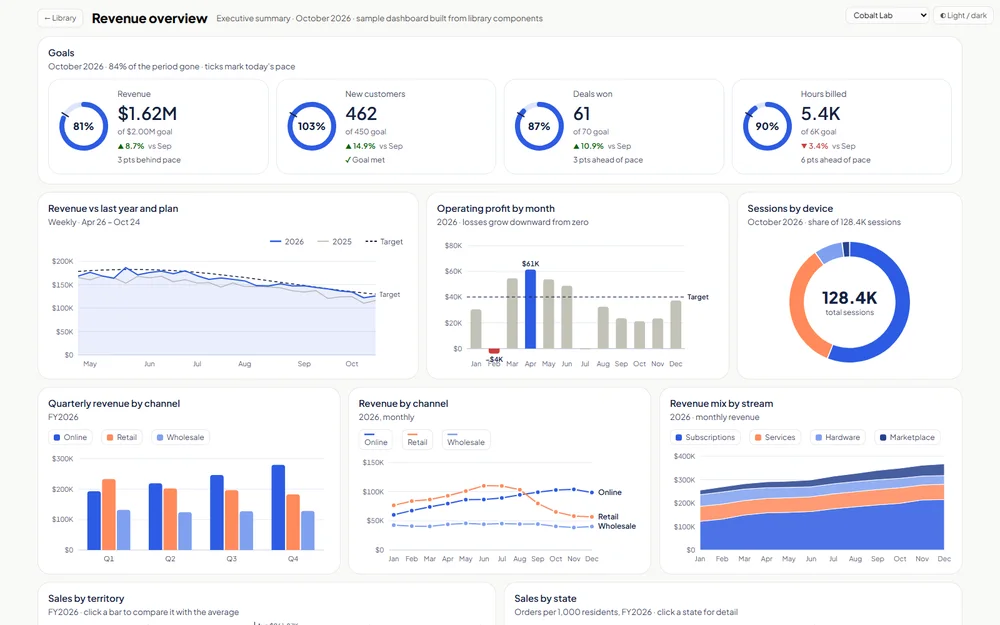
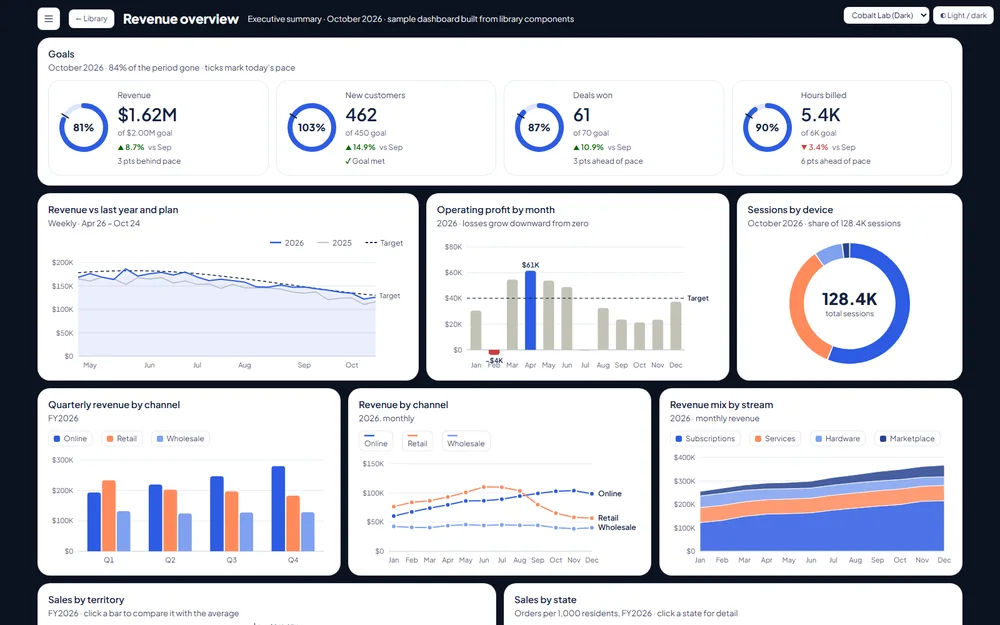
Show the library card in its Cobalt Lab (Dark) theme

diff --git a/index.html b/index.html
@@ -172,7 +172,7 @@
         <div class="work-grid">
           <article class="work-card">
             <a class="work-link" href="ai-driven-dashboard-component-library/">
-              <div class="thumb"><img src="assets/img/dashboard-library.webp" alt="Revenue overview sample dashboard built from the library: goal donuts, revenue against last year and plan, monthly profit, sessions by device and revenue by channel" width="1000" height="625" loading="lazy"></div>
+              <div class="thumb"><img src="assets/img/dashboard-library.webp" alt="Revenue overview sample dashboard built from the library, white cards on a navy page: goal donuts, revenue against last year and plan, monthly profit, sessions by device and revenue by channel" width="1000" height="625" loading="lazy"></div>
               <div class="work-body">
                 <div class="tags"><span class="tag tag-hl">New</span><span class="tag">AI</span><span class="tag">HTML &amp; JS</span></div>
                 <h3>AI Driven Dashboard Component Library</h3>
